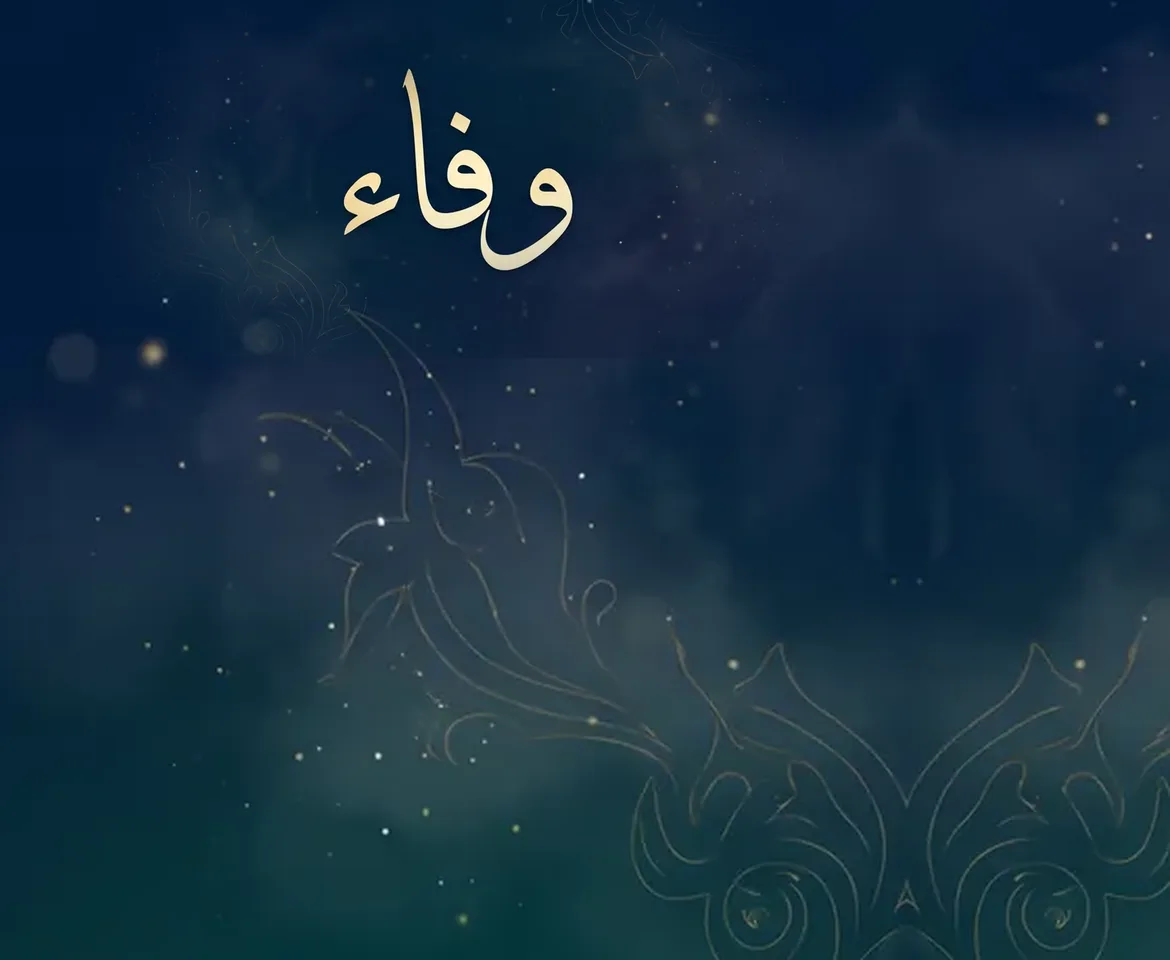
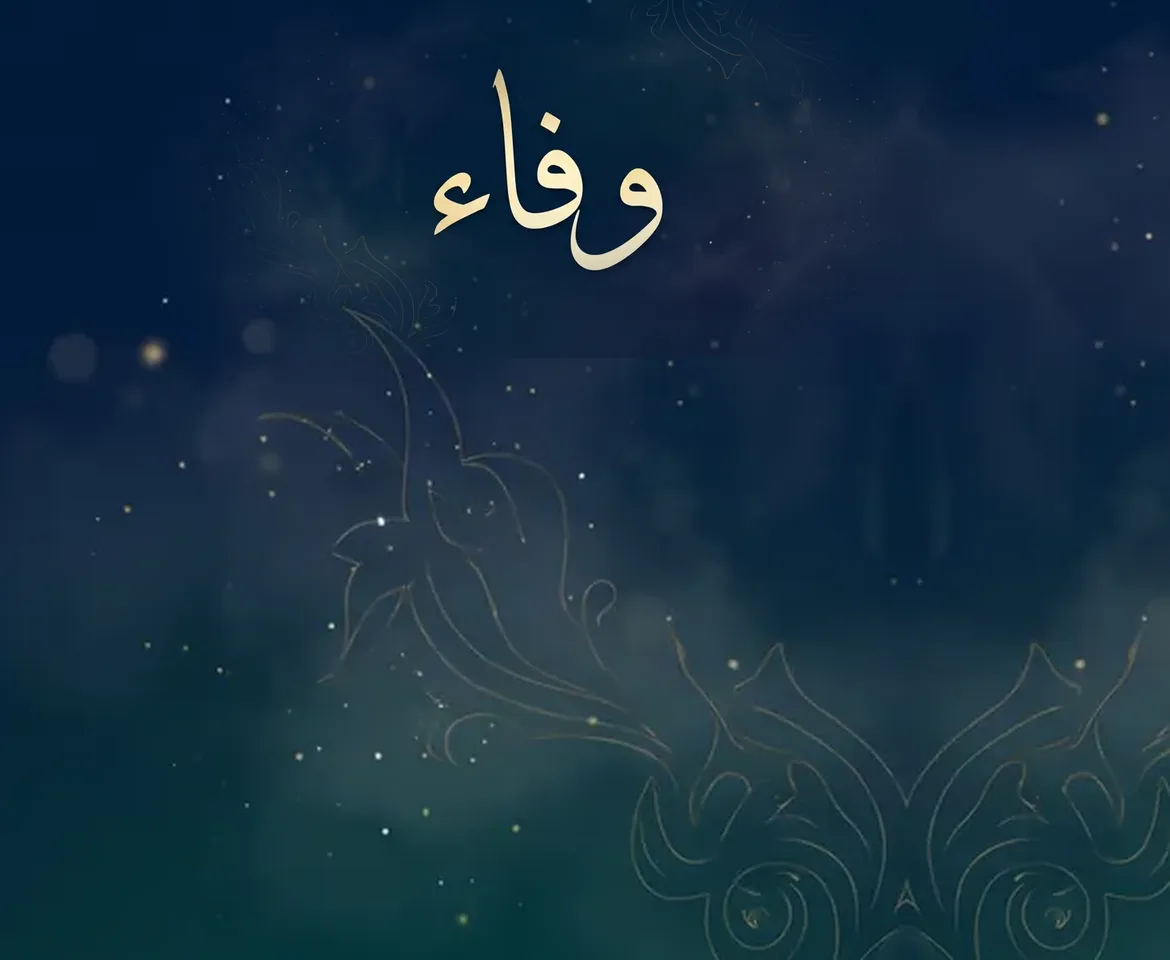
feat(design): phone tweaks for Səhifələrim, Qrup and admin
- Phone header drawn as one picture behind a transparent top bar (no seam)
- Calligraphy moved a little to the right on the phone
- Səhifələrim (phone): no figure card; donut left with legend right; juz
  dates under the panel title (desktop too)
- Qrup: title without the group name; "Son fəaliyyət" last on the phone
- Admin (phone): two cards; Participants jumps to the list, join requests
  open as a pop-up with approve and reject

Changed region(s): [[0.2769, 0.0625, 0.5846, 0.3125], [0.5846, 0.0938, 0.6154, 0.1562]]

diff --git a/src/app/admin/page.tsx b/src/app/admin/page.tsx
@@ -59,6 +59,7 @@ export default function AdminPage() {
   const closeThread = useCallback(() => setMessageTarget(null), []);
   // Settings panel (invite link, privacy, danger zone) opened from the gear button
   const [settingsOpen, setSettingsOpen] = useState(false);
+  const [requestsOpen, setRequestsOpen] = useState(false);
   const closeSettings = useCallback(() => {
     setSettingsOpen(false);
     if (window.location.search.includes("ayarlar")) window.history.replaceState(null, "", "/admin");
@@ -398,6 +399,20 @@ export default function AdminPage() {
   const pct = Math.round((totalUniqueCompleted / 604) * 100);
   const openJuzCount = assignments.filter((a) => !a.done).length;
 
+  // Join requests: one row per person with approve and reject
+  const requestRows = pendingGroupUsers.map((u) => (
+    <div key={u.uid} className="flex flex-wrap items-center justify-between gap-3 bg-white md:bg-white rounded-btn p-3 border border-line md:border-0">
+      <div className="flex items-center gap-3 min-w-0">
+        <Avatar name={nameOf(u)} gold />
+        <span className="text-[15px] font-bold truncate">{nameOf(u)}</span>
+      </div>
+      <div className="flex gap-2">
+        <button onClick={() => handleApproveUser(u.uid)} className={button("primary", "sm")}>Təsdiq et</button>
+        <button onClick={() => handleRejectUser(u)} className={button("danger", "sm")}>Rədd et</button>
+      </div>
+    </div>
+  ));
+
   return (
     <AppLayout activeTab="admin">
       <div className="flex flex-col gap-5 md:gap-7">
@@ -422,6 +437,25 @@ export default function AdminPage() {
           </Card>
         ) : (
           <>
+          {/* Phone: two figures. Participants jumps to the list, requests open as a pop-up */}
+          <section aria-label="Xülasə" className="md:hidden grid grid-cols-2 bg-white rounded-[18px] shadow-panel">
+            <a href="#uzvler" className="press px-4 py-3.5 flex flex-col min-w-0">
+              <span className="text-[12px] font-bold text-muted">İştirakçılar</span>
+              <span className="mt-2 mb-1.5 text-[24px] font-extrabold leading-none tabular-nums text-ink">{activeGroupUsers.length}</span>
+              <span className="text-[11.5px] text-forest font-bold">Siyahıya bax</span>
+            </a>
+            <button
+              type="button"
+              onClick={() => setRequestsOpen(true)}
+              aria-haspopup="dialog"
+              className="press px-4 py-3.5 flex flex-col items-start min-w-0 text-left border-l border-line"
+            >
+              <span className="text-[12px] font-bold text-muted">Qoşulmaq istəyənlər</span>
+              <span className="mt-2 mb-1.5 text-[24px] font-extrabold leading-none tabular-nums text-ink">{pendingGroupUsers.length}</span>
+              <span className="text-[11.5px]">{pendingGroupUsers.length > 0 ? <Up tone="warn">Bax və təsdiq et</Up> : <span className="text-muted">Yeni istək yoxdur</span>}</span>
+            </button>
+          </section>
+          <div className="hidden md:block">
           <StatStrip
             items={[
               {
@@ -447,30 +481,20 @@ export default function AdminPage() {
               },
             ]}
           />
+          </div>
           <div className="flex flex-wrap gap-5 md:gap-7 items-start">
 
             {/* Left column */}
             <div className="flex-[999_1_560px] min-w-0 flex flex-col gap-5 md:gap-7">
 
-              {/* Pending requests */}
+              {/* Pending requests (desktop; on the phone they open from the figure card) */}
               {pendingGroupUsers.length > 0 && (
-                <section id="istekler" className="scroll-mt-28 bg-progress rounded-card p-[18px] md:p-6 flex flex-col gap-3.5">
+                <section id="istekler" className="scroll-mt-28 hidden md:flex bg-progress rounded-card p-[18px] md:p-6 flex-col gap-3.5">
                   <div className="flex items-center gap-2.5">
                     <h2 className="m-0 text-base md:text-lg font-bold text-progresstext">Qoşulmaq istəyənlər</h2>
                     <span className="text-xs font-bold px-2.5 py-1 rounded-full bg-white text-progresstext">{pendingGroupUsers.length}</span>
                   </div>
-                  {pendingGroupUsers.map((u) => (
-                    <div key={u.uid} className="flex flex-wrap items-center justify-between gap-3 bg-white rounded-btn p-3">
-                      <div className="flex items-center gap-3 min-w-0">
-                        <Avatar name={nameOf(u)} gold />
-                        <span className="text-[15px] font-bold truncate">{nameOf(u)}</span>
-                      </div>
-                      <div className="flex gap-2">
-                        <button onClick={() => handleApproveUser(u.uid)} className={button("primary", "sm")}>Təsdiq et</button>
-                        <button onClick={() => handleRejectUser(u)} className={button("danger", "sm")}>Rədd et</button>
-                      </div>
-                    </div>
-                  ))}
+                  {requestRows}
                 </section>
               )}
 
@@ -766,6 +790,30 @@ export default function AdminPage() {
         )}
       </div>
       {settingsOpen && <AdminSettingsPanel onClose={closeSettings} />}
+      {requestsOpen && (
+        <div className="fade-in fixed inset-0 z-[60] bg-[#0B1F33]/55 backdrop-blur-[2px] flex items-end md:items-center justify-center" onClick={() => setRequestsOpen(false)}>
+          <div
+            role="dialog"
+            aria-modal="true"
+            aria-labelledby="istekler-title"
+            onClick={(e) => e.stopPropagation()}
+            className="rise-in md:pop-in w-full md:w-[520px] max-h-[80vh] overflow-y-auto bg-white rounded-t-[24px] md:rounded-[24px] p-5 pb-safe flex flex-col gap-3.5"
+          >
+            <div className="flex items-center justify-between gap-3">
+              <h2 id="istekler-title" className="m-0 text-[18px] font-extrabold text-ink">Qoşulmaq istəyənlər</h2>
+              <button
+                type="button"
+                onClick={() => setRequestsOpen(false)}
+                aria-label="Bağla"
+                className="press w-11 h-11 -mr-2 rounded-full grid place-items-center text-muted hover:bg-cream"
+              >
+                <svg width="20" height="20" viewBox="0 0 24 24" fill="none" stroke="currentColor" strokeWidth="2" strokeLinecap="round" aria-hidden="true"><path d="M6 6l12 12M18 6 6 18" /></svg>
+              </button>
+            </div>
+            {pendingGroupUsers.length > 0 ? requestRows : <p className="m-0 text-[14px] text-muted">Yeni istək yoxdur.</p>}
+          </div>
+        </div>
+      )}
       {messageTarget && (
         <ThreadDialog
           groupId={activeGroupId}

diff --git a/src/components/dash.tsx b/src/components/dash.tsx
@@ -94,9 +94,9 @@ export function Donut({ parts, center, caption }: { parts: DonutPart[]; center: 
   const gap = shown.length > 1 ? 3 : 0;
   let offset = 0;
   return (
-    <div className="flex flex-col gap-5">
-      <div className="relative h-[190px] grid place-items-center">
-        <svg viewBox="0 0 170 170" className="w-[170px] h-[170px] -rotate-90 drop-shadow-[0_10px_14px_rgba(24,34,53,0.12)]" aria-hidden="true">
+    <div className="flex flex-row md:flex-col items-center md:items-stretch gap-5">
+      <div className="relative shrink-0 h-[140px] w-[140px] md:w-auto md:h-[190px] grid place-items-center">
+        <svg viewBox="0 0 170 170" className="w-[140px] h-[140px] md:w-[170px] md:h-[170px] -rotate-90 drop-shadow-[0_10px_14px_rgba(24,34,53,0.12)]" aria-hidden="true">
           {total === 0 ? (
             <circle r={r} cx={85} cy={85} fill="none" stroke="#E7E8E0" strokeWidth={26} />
           ) : (
@@ -116,13 +116,13 @@ export function Donut({ parts, center, caption }: { parts: DonutPart[]; center: 
           )}
         </svg>
         <div className="absolute inset-0 grid place-items-center">
-          <div className="w-24 h-24 rounded-full bg-white shadow-[0_4px_18px_rgba(24,34,53,0.1)] flex flex-col items-center justify-center text-center">
-            <span className="text-[26px] font-extrabold leading-none tabular-nums text-ink">{center}</span>
-            <span className="mt-1 text-[12px] text-muted">{caption}</span>
+          <div className="w-[78px] h-[78px] md:w-24 md:h-24 rounded-full bg-white shadow-[0_4px_18px_rgba(24,34,53,0.1)] flex flex-col items-center justify-center text-center">
+            <span className="text-[22px] md:text-[26px] font-extrabold leading-none tabular-nums text-ink">{center}</span>
+            <span className="mt-1 text-[10.5px] md:text-[12px] text-muted">{caption}</span>
           </div>
         </div>
       </div>
-      <ul className="m-0 p-0 list-none flex flex-col gap-3">
+      <ul className="flex-1 min-w-0 m-0 p-0 list-none flex flex-col gap-3">
         {parts.map((p) => (
           <li key={p.label} className="flex items-center gap-2.5 text-[14px] text-muted">
             <span className="w-2.5 h-2.5 rounded-full shrink-0" style={{ background: p.color }} />

diff --git a/src/app/progress/page.tsx b/src/app/progress/page.tsx
@@ -144,13 +144,12 @@ export default function ProgressPage() {
   });
   const activities = Array.from(activityMap.values()).sort((a, b) => b.time - a.time).slice(0, 6);
 
-  const groupName = activeGroup?.name || "Qrup";
 
   return (
     <AppLayout activeTab="progress">
       <div className="flex flex-col gap-5 md:gap-7">
         <PageHeader
-          title={`Qrup · ${groupName}`}
+          title="Qrup"
           subtitle="Xətmlər, cüzlər və iştirakçıların oxuma gedişatı"
           tabs={[
             { id: "xulase", label: "Xülasə" },
@@ -190,7 +189,8 @@ export default function ProgressPage() {
         </div>
 
 
-        <div className="flex flex-wrap gap-5 md:gap-7 items-start">
+        {/* On the phone the row dissolves so "Son fəaliyyət" can move to the very bottom */}
+        <div className="contents md:flex flex-wrap gap-5 md:gap-7 items-start">
           <div className="flex-[999_1_560px] min-w-0 flex flex-col gap-5 md:gap-7">
             <Card id="cuzler" className="scroll-mt-28">
               <div className="flex flex-col gap-1">
@@ -203,7 +203,7 @@ export default function ProgressPage() {
 
           </div>
 
-          <div className="flex-[1_1_300px] min-w-0 flex flex-col gap-5 md:gap-7">
+          <div className="order-last md:order-none flex-[1_1_300px] min-w-0 flex flex-col gap-5 md:gap-7">
             <Card id="fealiyyet" className="scroll-mt-28">
               <h2 className="m-0 text-base md:text-lg font-bold text-ink">Son fəaliyyət</h2>
               {activities.length === 0 ? (

diff --git a/src/app/globals.css b/src/app/globals.css
@@ -83,8 +83,8 @@ body {
   background-position: center, center -76px;
 }
 
-/* Phone header: the same artwork in a taller cut (calligraphy at the top). The top bar shows its
-   first 64px, the page band continues from there. */
+/* Phone header: the same artwork in a taller cut (calligraphy at the top). The page band starts at
+   the top of the screen behind the top bar; the top bar paints it only on screens without a band. */
 @media (max-width: 767.98px) {
   .night-nav-m,
   .girih-tile-m {
@@ -95,8 +95,11 @@ body {
     background-size: 100vw 320px, 100vw auto;
     background-repeat: no-repeat;
   }
-  .night-nav-m { background-position: center top, center top; }
-  .girih-tile-m { background-position: center -64px, center -64px; }
+  .night-nav-m,
+  .girih-tile-m { background-position: center top, center top; }
+  /* A screen with a band draws the whole picture itself, from the very top behind the transparent
+     top bar, so there is no seam between two backgrounds */
+  body:has(.girih-tile-m) .night-nav-m { background: transparent; }
 }
 
 /* Every bordered card is a borderless white panel, like the dashboard panels */

diff --git a/src/components/MyOverview.tsx b/src/components/MyOverview.tsx
@@ -39,6 +39,7 @@ export function MyOverview({ assignments, uid, current }: { assignments: Assignm
 
   return (
     <>
+      <div className="hidden md:block">
       <StatStrip
         items={[
           {
@@ -71,9 +72,14 @@ export function MyOverview({ assignments, uid, current }: { assignments: Assignm
           },
         ]}
       />
+      </div>
 
       <div className="grid md:grid-cols-[1fr_1.9fr] gap-5 md:gap-6">
-        <Panel id="gedis" title="Mənim cüzüm" action={current ? <span className="text-[13px] font-semibold text-muted">Cüz {current.juz} · {khatmLabel(current.khatm)}</span> : undefined}>
+        <Panel
+          id="gedis"
+          title="Mənim cüzüm"
+          sub={current?.startDate && current.endDate ? `${formatIsoDateAz(current.startDate)} – ${formatIsoDateAz(current.endDate)}` : undefined}
+          action={current ? <span className="text-[13px] font-semibold text-muted">Cüz {current.juz} · {khatmLabel(current.khatm)}</span> : undefined}>
           <Donut
             parts={[
               { label: "Oxunub", value: done, color: "#0F5C45" },

diff --git a/src/components/ui.tsx b/src/components/ui.tsx
@@ -210,7 +210,7 @@ export function PageHeader({
   return (
     <>
       <header className="md:hidden relative -mx-4 px-4 pt-3 pb-1 flex flex-col gap-1">
-        <div aria-hidden="true" className={`girih-tile-m absolute inset-x-0 -top-6 -z-10 pointer-events-none ${tight ? "-bottom-6" : "-bottom-[60px]"}`} />
+        <div aria-hidden="true" className={`girih-tile-m absolute inset-x-0 -top-[88px] -z-10 pointer-events-none ${tight ? "-bottom-6" : "-bottom-[60px]"}`} />
         <h1 className="m-0 font-display font-normal text-[27px] leading-[1.25] pb-0.5 text-white">{title}</h1>
         {subtitle && <div className="text-[13px] text-nightmuted">{subtitle}</div>}
         {actions && <div className="mt-2.5 flex flex-wrap items-center gap-2.5">{actions}</div>}

diff --git a/src/app/dashboard/page.tsx b/src/app/dashboard/page.tsx
@@ -443,7 +443,7 @@ current && (
         <div role="status" aria-live="polite" className="sr-only">{announcement}</div>
 
         <header className="relative -mx-4 md:mx-0 px-4 md:px-0 pt-3 md:pt-0 pb-1 flex flex-col gap-1 md:flex-row md:items-end md:justify-between md:gap-6 md:min-h-[112px]">
-          <div aria-hidden="true" className="girih-tile-m md:hidden absolute inset-x-0 -top-6 -bottom-[60px] -z-10 pointer-events-none" />
+          <div aria-hidden="true" className="girih-tile-m md:hidden absolute inset-x-0 -top-[88px] -bottom-[60px] -z-10 pointer-events-none" />
           <NightBand />
           {/* The greeting on the night artwork band, the date beneath it */}
           <div className="flex flex-col gap-1 md:gap-2 min-w-0">
